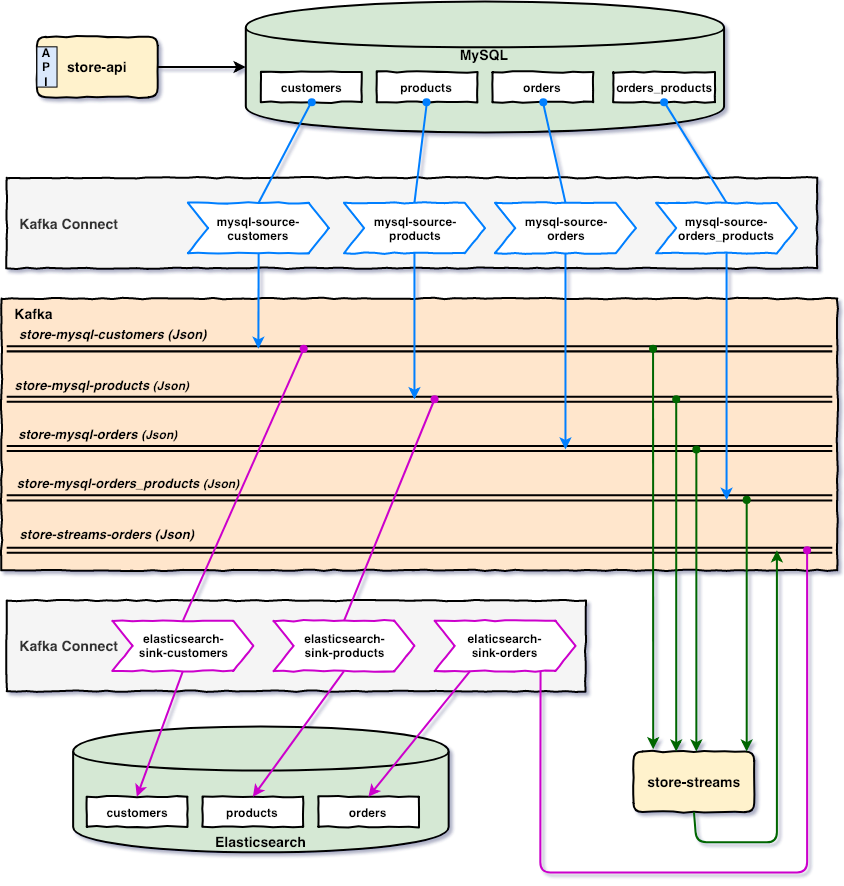
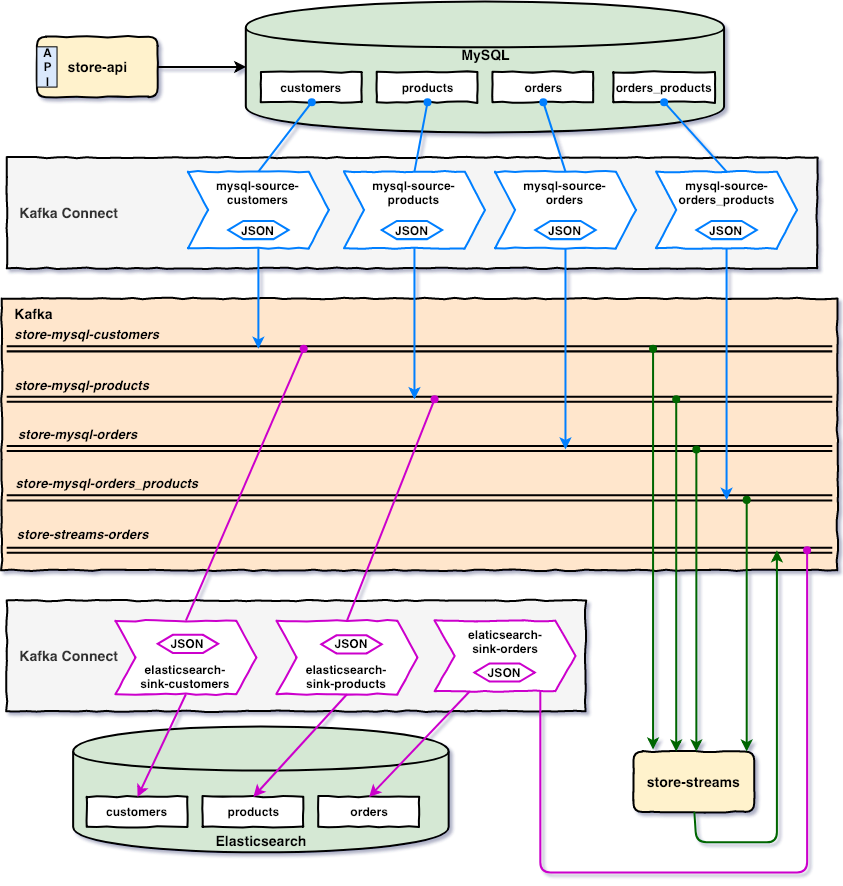
update README and project-diagram image

diff --git a/README.md b/README.md
@@ -4,18 +4,11 @@
 
 The main goal of this project is to play with [Kafka](https://kafka.apache.org),
 [Kafka Connect](https://docs.confluent.io/current/connect/index.html) and
-[Kafka Streams](https://docs.confluent.io/current/streams/index.html). For this, we have the `store-api` that
-inserts/updates records in [MySQL](https://www.mysql.com) database; some `Kafka source connectors` that reads from MySQL
-and push to Kafka; some `Kafka sink connectors` that reads event from Kafka and inserts in
-[Elasticsearch](https://www.elastic.co); finally, the `store-streams` that reads data from Kafka, treats them using
-Kafka Streams and push new events Kafka.
-
-## Branches
-
-The project has 2 branches:
-
-- `master`: uses `JSON` serialization format;
-- `avro-serialization-format`: uses `Avro` serialization format (**not ready**).
+[Kafka Streams](https://docs.confluent.io/current/streams/index.html). For this, we have: `store-api` that
+inserts/updates records in [MySQL](https://www.mysql.com); `Kafka source connectors` that monitor
+inserted/updated records in MySQL and push messages related to those changes to Kafka; `Kafka sink connectors` that
+read messages from Kafka and insert documents in [Elasticsearch](https://www.elastic.co); finally, `store-streams` that
+listens for messages in Kafka, treats them using Kafka Streams and push new messages back to Kafka.
 
 ## Microservices
 
@@ -24,12 +17,12 @@ The project has 2 branches:
 ### store-api
 
 Monolithic spring-boot application that exposes a REST API to manage Customers, Products and Orders. The data is saved
-in MySQL. This application does not connect directly to Kafka. 
+in MySQL. 
 
 ### store-streams
 
-Spring-boot application that connects Kafka and uses Kafka Streams to transform some input topics into a new topic in
-Kafka.  
+Spring-boot application that connects to Kafka and uses Kafka Streams API to transform some "input" topics into a new
+"output" topic in Kafka.
 
 ## Start Environment
 
@@ -61,7 +54,7 @@ docker-compose ps
 mvn spring-boot:run
 ```
 
-3. Wait for `store-api` to be up and running. It is configured to create all needed tables on `mysql`.
+3. Wait for `store-api` to be up and running. It is configured to create all needed tables on MySQL.
 
 4. Its swagger website is http://localhost:9080/swagger-ui.html
 
@@ -72,7 +65,7 @@ mvn spring-boot:run
 1. In a terminal, run the following script to create the connectors on `kafka-connect`
 ```
 ./create-connectors.sh
-```
+```  
 
 2. At the end of the script, it shows (besides other info) the state connectors and their tasks. You must see something like
 ```
@@ -94,6 +87,9 @@ mvn spring-boot:run
 ```
 docker logs kafka-connect -f
 ```
+
+5. Source connectors use `JSONConverter` to serialize data from MySQL to Kafka. The same way, sink connectors use
+`JSONConverter` to deserialize messages from Kafka to Elasticsearch.
 
 ### Start store-streams
 
